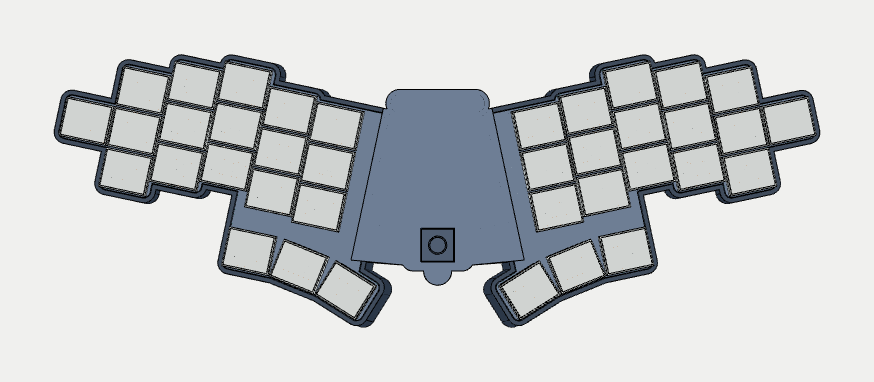
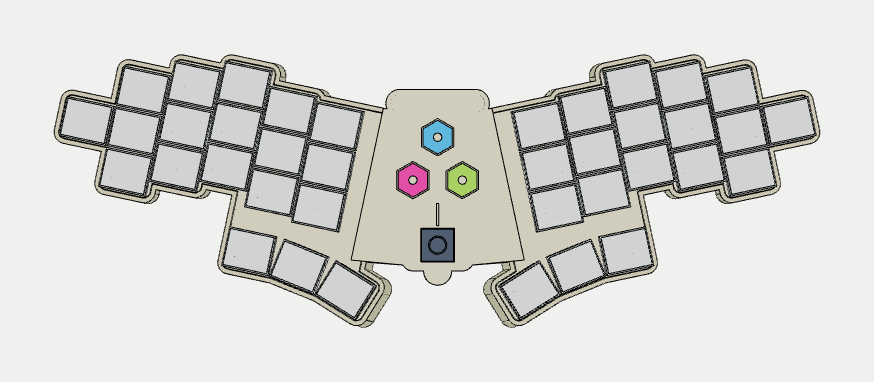
Add the three-eye motif as colour inlays on the middle cover
Three hexagonal eyes (blue, pink, green) are 0.6 mm deep inlays in the
top of the middle cover, each with a recessed outline and an open centre
in the cover colour, plus a recessed line down to the encoder. The
inlays are separate bodies; the print script moves them like the cover
so cover and eyes load as one multi-part object in the slicer. Render
colours are now beige like the print. A checkbox parameter turns the
motif off.

diff --git a/case/fluidcad/top-shell.part.js b/case/fluidcad/top-shell.part.js
@@ -1,4 +1,4 @@
-import { color, part } from 'fluidcad/core';
+import { color, param, part } from 'fluidcad/core';
 import { INNER_EDGE_X, boardHeight, layoutParams } from './layout.js';
 import { boardThickness, components, holes, switches } from './pcb-reference.js';
 import { ENCODER, bridgeY, circleBodies, gapCorners, outlineBody, reachIntoMiddle, rectBodies, shellParams, usbOpening } from './shell.js';
@@ -34,6 +34,27 @@ const HELIOS_EDGE = { x: 9.5, y: 1.4 };
 const CLIPS = { layer: 1.2, relief: [15.0, 14.0] };
 // Gap between the middle cover and the pocket wall of the bottom shell next to it.
 const PLATE_GAP = 0.2;
+// Guardian motif on the top of the middle cover: three hexagonal eyes as colour inlays (one
+// filament each, the cover in the base colour) and recessed lines. Coordinates in the frame
+// of the middle (world XY). radius: corner radius of the inlay (pointy top); groove: width of
+// the recessed outline around each eye; dot: the open centre in which the cover colour shows;
+// depth: inlays and lines, three layers of 0.2 mm. The cover prints upside down on its top
+// face, so all colours sit in its first layers.
+const MOTIF = {
+  eyes: [
+    { name: 'blue', color: '#3aa7e6', at: [0, -16] },
+    { name: 'pink', color: '#e5458f', at: [-9.5, -32.5] },
+    { name: 'green', color: '#8fcf3e', at: [9.5, -32.5] },
+  ],
+  radius: 6.5, groove: 0.6, dot: 3.2, depth: 0.6,
+  // Centre line from below the lower eyes to the encoder.
+  line: { width: 0.8, y: [-41.5, -50] },
+};
+const hexagon = (at, r) => [...Array(6)].map((_, i) => {
+  const a = Math.PI / 2 + (i * Math.PI) / 3;
+  return [at[0] + r * Math.cos(a), at[1] + r * Math.sin(a)];
+});
+
 // Heat-set inserts M2 in the middle cover: hole for the insert, then room for the screw tip.
 // The hole for the screw tip stops `tipCover` below the top of the cover.
 const INSERT = { boss: 6, hole: 3.2, depth: 4.5, tip: 2.0, tipCover: 1.2 };
@@ -118,5 +139,22 @@ export const topShell = part('Molekula · Top shell', () => {
   circleBodies('middle', p, screws, INSERT.hole, PT - 1, PT + INSERT.depth, 'Middle · insert hole', { remove: [middle] });
   circleBodies('middle', p, screws, INSERT.tip, PT - 1, PT + s.coverHeight - INSERT.tipCover, 'Middle · screw tip', { remove: [middle] });
 
-  color('#6b7380', left, right, middle);
+  // Guardian motif: pocket with the groove around each eye, a pillar for the open centre,
+  // the inlay as its own body, and the centre line.
+  if (param('Guardian motif on the middle cover', true, 'checkbox')) {
+    const top = PT + s.coverHeight;
+    const z0 = top - MOTIF.depth;
+    const outer = MOTIF.radius + MOTIF.groove / Math.cos(Math.PI / 6);
+    rectBodies('middle', p, MOTIF.eyes.map(e => ({ corners: hexagon(e.at, outer) })), z0, top + 1, 'Middle · eye pocket', { remove: [middle] });
+    circleBodies('middle', p, MOTIF.eyes.map(e => e.at), MOTIF.dot, z0 - 0.05, top, 'Middle · eye centre', { add: [middle] });
+    rectBodies('middle', p, [{ center: [0, (MOTIF.line.y[0] + MOTIF.line.y[1]) / 2], width: MOTIF.line.width, height: Math.abs(MOTIF.line.y[1] - MOTIF.line.y[0]) }],
+      z0, top + 1, 'Middle · centre line', { remove: [middle] });
+    for (const e of MOTIF.eyes) {
+      const [eye] = rectBodies('middle', p, [{ corners: hexagon(e.at, MOTIF.radius) }], z0, top, `Eye · ${e.name}`);
+      circleBodies('middle', p, [e.at], MOTIF.dot, z0 - 1, top + 1, `Eye · ${e.name} · centre`, { remove: [eye] });
+      color(e.color, eye);
+    }
+  }
+
+  color('#d8c9a3', left, right, middle);
 });

diff --git a/case/concepts/guardian-motif.html b/case/concepts/guardian-motif.html
@@ -1,7 +1,8 @@
 <!DOCTYPE html><html lang="en"><head><meta charset="utf-8"><title>Molekula · guardian motif (concept)</title>
 <style>body{font:15px/1.5 system-ui,sans-serif;background:#f0efe9;color:#2b2622;margin:0 auto;padding:28px;max-width:900px}
 .card{background:#1d1f22;border-radius:10px;padding:16px}.sw{display:inline-block;width:14px;height:14px;border-radius:3px;vertical-align:middle;margin-right:4px;border:1px solid #0006}</style></head><body>
-<h1>Guardian motif (concept, not built)</h1>
+<h1>Guardian motif (concept)</h1>
+<p><b>Built in a reduced form:</b> only the three eyes on the middle cover, as colour inlays with a recessed outline and a recessed centre line; plates and bottom shell stay in the base colour, without dark outlines or a hexagonal knob. See <code>MOTIF</code> in <code>case/fluidcad/top-shell.part.js</code>.</p>
 <p>Idea from the first test print: with splay the keyboard resembles the guardian from the game Tunic. The middle reads as the body, the stepped columns as the bars that stand out from it. This page keeps the concept for later. The sketch uses 18° splay per half and simplified outlines.</p>
 <div class="card"><svg viewBox="-165 -25 330 100" xmlns="http://www.w3.org/2000/svg" style="width:100%;height:auto"><path d="M-98.15 28.06L-96.24 28.68L-94.72 28.56L-93.72 27.39L-93.11 25.49L-78.84 30.13L-87.49 56.76L-87.37 58.28L-86.21 59.28L-70.04 64.53L-53.26 73.45L-39.87 83.92L-38.39 84.33L-37.06 83.57L-29.67 74.12L-29.26 72.64L-30.02 71.31L-36.44 66.29L-29.86 46.04L-29.24 44.14L-22.14 22.27L-21.52 20.36L-18.12 9.90L-18.24 8.38L-19.40 7.38L-44.61 -0.81L-44.73 -2.33L-45.89 -3.33L-62.06 -8.58L-60.82 -12.38L-60.94 -13.91L-62.11 -14.90L-76.37 -19.54L-77.90 -19.42L-78.89 -18.26L-79.51 -16.35L-95.68 -21.61L-97.20 -21.49L-98.20 -20.32L-99.43 -16.52L-116.08 -21.93L-117.60 -21.81L-118.60 -20.64L-122.92 -7.33L-139.09 -12.58L-140.62 -12.46L-141.61 -11.30L-145.32 0.12L-145.20 1.64L-144.04 2.64L-127.39 8.04L-131.72 21.36L-131.60 22.88L-130.43 23.88L-118.07 27.90L-116.17 28.51L-114.64 28.39L-113.65 27.23L-112.41 23.43L-98.15 28.06Z" fill="#d8c9a3" stroke="#2b2622" stroke-width="1.6"/>
 <path d="M-119.76 -7.35L-106.45 -3.03L-102.12 -16.34L-115.43 -20.67Z" fill="#2a2a2a" opacity="0.85"/>

diff --git a/case/fluidcad/bottom-shell.part.js b/case/fluidcad/bottom-shell.part.js
@@ -128,5 +128,5 @@ export const bottomShell = part('Molekula · Bottom shell', () => {
   circleBodies('middle', p, screws, SCREW.head, -zh - 1, bottom + SCREW.headDepth, 'Middle · screw head', { remove: all });
   circleBodies('middle', p, [[-reset.center[0], reset.center[1]]], RESET_HOLE, -zh - 1, 1, 'Middle · reset access', { remove: all });
 
-  color('#4a4f57', ...all);
+  color('#cdbd95', ...all);
 });

diff --git a/README.md b/README.md
@@ -35,6 +35,10 @@ The top shell consists of three print parts:
 - **Top plates (left and right):** 2.2 mm thick and flat, lying on the key boards. They hide the green boards. The switches are pushed through 14 mm cut-outs into the hotswap sockets, and their clips catch under the plate as on a normal Choc plate. The outer wall of the bottom shell rises to the top of the plates, so the plates sit recessed in a pocket and the side shows one flat wall. The key boards have no mounting holes. Instead, seven crush ribs per side on the inside of the wall hold each plate: they stand 0.35 mm out of the wall and are squeezed by 0.15 mm when the plate is pressed in.
 - **Middle cover:** covers the Helios, the FFC sockets and the cables. Its flat top reaches over the cable gap onto the inner edges of both plates and clamps them. It is 7 mm high above the board, just as high as the square body of the encoder, which sits flush in a square opening. The cut-out for the USB-C plug is centred on the real receptacle and continues as a small notch in the bottom shell. The heights come from the built keyboard: the Helios is soldered almost flat onto the board with its parts facing up, the top of the USB-C receptacle is 4.5 mm above the board, the encoder body 7 mm, the shaft tip 15.6 mm. In the model, Helios and encoder are built from these measurements instead of the KiCad 3D models.
 
+On top of the middle cover sits a small motif: three hexagonal eyes in blue, pink and green, arranged in a triangle, with a recessed outline around each eye and a recessed line down to the encoder. The eyes are 0.6 mm deep colour inlays with an open centre in which the cover colour shows; the outlines and the line are plain recesses without a colour of their own. With the cover in the base colour this needs four filaments, for example an AMS with four slots. The parameter **Guardian motif on the middle cover** switches it off.
+
+![Middle cover with the three eye inlays](images/unibody-cover-eyes.png)
+
 Only three M2 screws hold the case together. They go from below through the bottom shell and the holes H5–H7 of the MCU board into M2 heat-set inserts (Ø 3.2 mm hole, 4.5 mm deep) in the middle cover. The access holes from the desk side are 11 mm wide, enough for a screwdriver shaft of 10 mm. M2 × 8 screws reach 4.3 mm into the inserts. Nothing is glued.
 
 Assembly: put the boards into the bottom shell and connect the cables. Press each plate into its pocket. Put the middle cover on and screw it from below. Then push in the switches.
@@ -51,12 +55,14 @@ The bottom shell prints in one piece. Diagonally it needs a square of about 221 
 node case/fluidcad/tools/print-files.mjs 15   # center wedge thickness in mm
 ```
 
+With the motif the script also writes the three eye inlays as `middle-cover-eye-blue/-pink/-green-wedge<mm>.step/.stl`, moved like the cover, and all four together as `middle-cover-with-eyes-wedge<mm>.step`. Load the cover and the three eyes together in the slicer as one object with several parts (Bambu Studio and OrcaSlicer ask when several files are loaded at once) and give each eye its filament. The cover lies on its top face, so all colours sit in the first three layers.
+
 Still open:
 
 - The splay has not been test-printed yet; 12° is a starting point.
 - The crush ribs have not been test-printed yet. If the plates sit too tight or too loose, change the parameter **Gap between top plate and wall (mm)**.
 - The encoder knob is not modelled yet.
-- A colour concept for multi-colour printing is kept in [case/concepts/guardian-motif.html](case/concepts/guardian-motif.html), not built yet.
+- The eye motif has not been test-printed yet. The first colour concept, with more elements than were built, is kept in [case/concepts/guardian-motif.html](case/concepts/guardian-motif.html).
 - The battery sockets J7 and J12 on the top side of the key boards would collide with the plates if populated.
 
 ## Board and manufacturing
